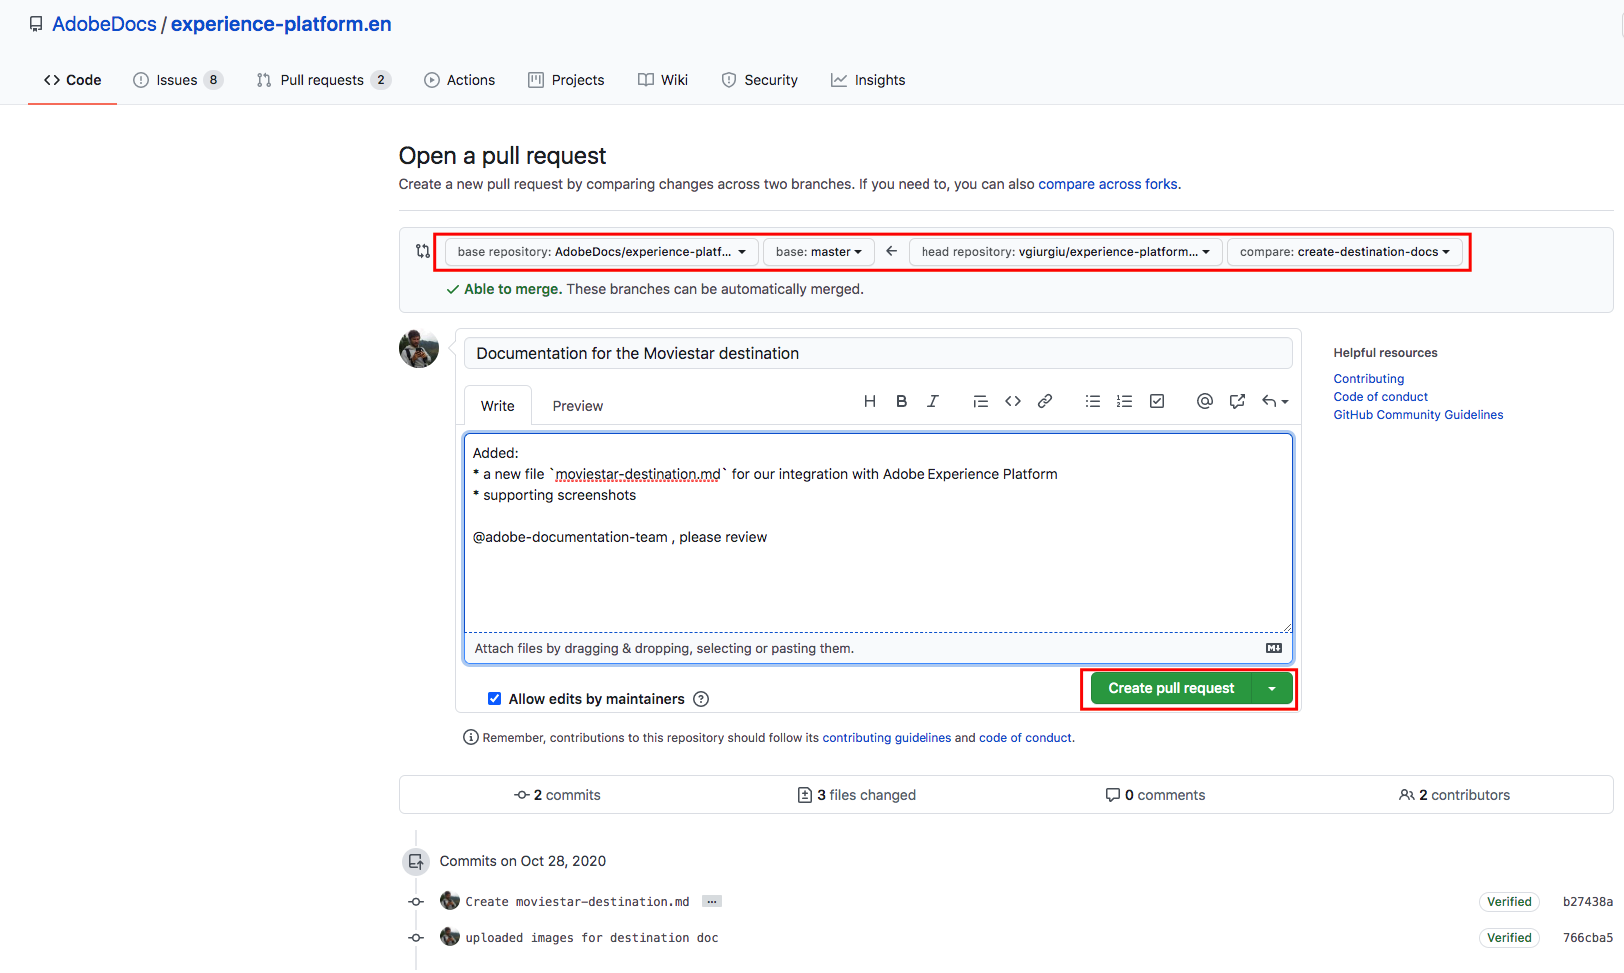
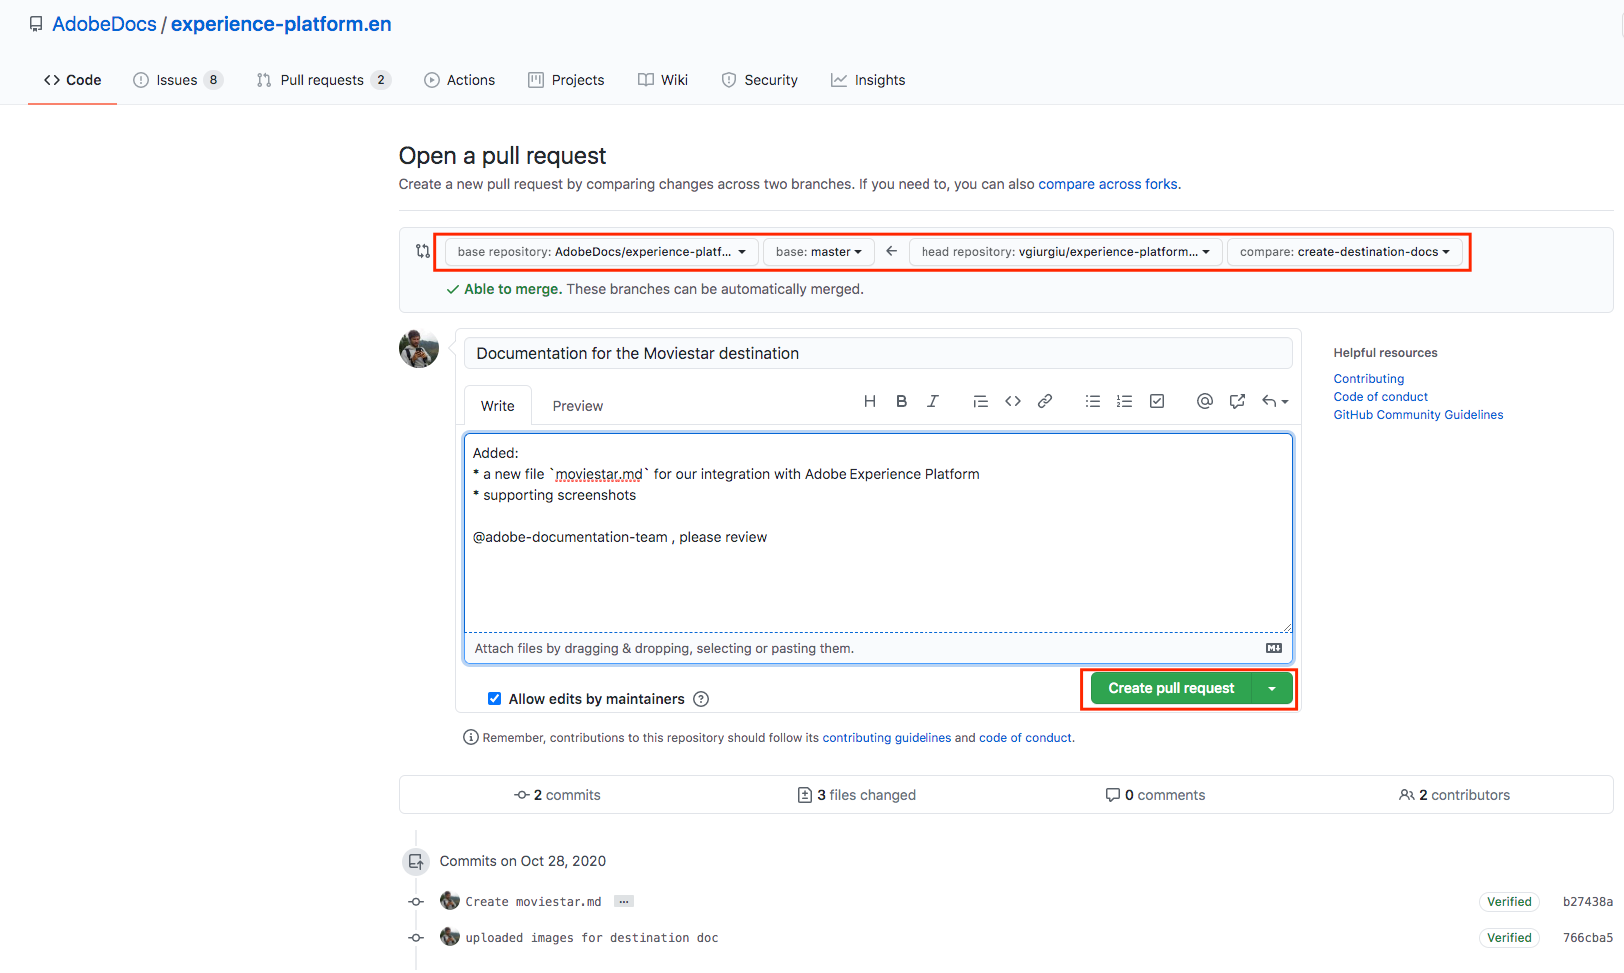
Updates to the documentation instructions
* to remove rtcdp from folder structures
* to reference the fact that we now have a deeper folder structure in the destinations repository

Changed region(s): [[0.3695, 0.4625, 0.6466, 0.4933], [0.7697, 0.6783, 0.8005, 0.7091], [0.3695, 0.925, 0.4002, 0.9558]]

diff --git a/help/docs-framework/documentation-instructions.md b/help/docs-framework/documentation-instructions.md
@@ -113,14 +113,14 @@ The instructions below show you how to use the GitHub web interface to author do
 
    ![create new github branch](/help/docs-framework/assets/new-branch-github.gif)
 
-1. In the GitHub folder structure of the forked repository, navigate to `experience-platform.en/help/destinations/` and select **Add file > Create new file**. 
+1. In the GitHub folder structure of the forked repository, navigate to `experience-platform.en/help/destinations/catalog/[...]`, where [...] is the desired category for your destination. For example, if you are adding a personalization destination to Experience Platform, select the `personalization` category. Select **Add file > Create new file**. 
 
    ![add new file](/help/docs-framework/assets/github-navigate-and-create-file.gif)
 
-1. Name your destination `YOURDESTINATION-destination.md`, where YOURDESTINATION is the name of your destination in Adobe Experience Platform. For example, if your company is Moviestar, you would call your file `moviestar-destination.md`.
+1. Name your destination `YOURDESTINATION.md`, where YOURDESTINATION is the name of your destination in Adobe Experience Platform. For example, if your company is called Moviestar, you would name your file `moviestar.md`.
 1. In your new file in GitHub, paste in the content of the [destination template](/help/docs-framework/self-service-template.md). Download the template [here](assets/yourdestination-template.md.zip). Unzip it to extract the `.md` file template.
 1. In the GitHub interface, edit the template with relevant information for your destination. Follow the instructions in the template. 
-1. For any screenshots or images that you plan on using, use the GitHub interface to upload the files to `experience-platform.en/help/destinations/assets` and link to them from the page you are authoring. See [instructions how to link to images](https://docs.adobe.com/content/help/en/contributor/contributor-guide/writing-essentials/linking.html#link-to-images).
+1. For any screenshots or images that you plan on using, use the GitHub interface to upload the files to `experience-platform.en/help/destinations/assets/catalog/` and link to them from the page you are authoring. See [instructions how to link to images](https://docs.adobe.com/content/help/en/contributor/contributor-guide/writing-essentials/linking.html#link-to-images).
    
    ![upload image to github](/help/docs-framework/assets/upload-image.gif)
 
@@ -170,17 +170,29 @@ Please see [Install Git and Markdown Authoring tools](https://docs.adobe.com/con
 
    ![clone repository to local machine](/help/docs-framework/assets/clone-local.png)
 
-1. In your local file structure, navigate to `GitHub/experience-platform.en/help/destinations`.
-1. Download the [self-service destination template](assets/yourdestination-template.md.zip). Unzip it and extract the file `yourdestination-template.md` to the above directory.  Rename the file `YOURDESTINATION-destination.md`, where YOURDESTINATION is the name of your destination in Adobe Experience Platform. For example, if your company is Moviestar, you would call your file `moviestar-destination.md`.
+1. In your local file structure, navigate to `experience-platform.en/help/destinations/catalog/[...]`, where [...] is the desired category for your destination. For example, if you are adding a personalization destination to Experience Platform, select the `personalization` folder.
+1. Download the [self-service destination template](assets/yourdestination-template.md.zip). Unzip it and extract the file `yourdestination-template.md` to the above directory.  Rename the file `YOURDESTINATION.md`, where YOURDESTINATION is the name of your destination in Adobe Experience Platform. For example, if your company is called Moviestar, you would name your file `moviestar.md`.
 1. Open your new file in your [text editor of choice](https://docs.adobe.com/content/help/en/contributor/contributor-guide/setup/install-tools.html#understand-markdown-editors).
 1. Edit the template with relevant information for your destination. Follow the instructions in the template. 
-1.  For any screenshots or images that you plan on adding to your documentation, save those to `GitHub/experience-platform.en/help/destinations/assets` and link to them from the page you are authoring. See [instructions how to link to images](https://docs.adobe.com/content/help/en/contributor/contributor-guide/writing-essentials/linking.html#link-to-images).
-1.  When you are ready, save the file you are working on.
+1.  For any screenshots or images that you plan on adding to your documentation, navigate to `GitHub/experience-platform.en/help/destinations/assets/catalog/[...]`, where [...] is the desired category for your destination. For example, if you are adding a personalization destination to Experience Platform, select the `personalization` folder. Create a new folder for your destination and drop your images here. You can link to them from the page you are authoring. See [instructions how to link to images](https://docs.adobe.com/content/help/en/contributor/contributor-guide/writing-essentials/linking.html#link-to-images).
+1. When you are ready, save the file you are working on.
 1. In GitHub Desktop, create a working branch for your updates and select **Publish branch** to publish the branch to GitHub.
+
+   >[!TIP]
+   >
+   >The folder structure in the screen recording below is outdated. For a personalization destination named Moviestar, you would use the following folder structure:
+   >* `help/destinations/catalog/personalization/moviestar.md` for the Markdown file.
+   >* `help/destinations/assets/catalog/personalization/moviestar/` for any images you are using in the documentation.
 
    ![new branch local](/help/docs-framework/assets/new-branch-local.gif)
 
 1. In GitHub Desktop, [commit](https://docs.github.com/en/free-pro-team@latest/github/getting-started-with-github/github-glossary#commit) your work, as shown below.
+
+   >[!TIP]
+   >
+   >The folder structure in the screen recording below is outdated. For a personalization destination named Moviestar, you would use the following folder structure:
+   >* `help/destinations/catalog/personalization/moviestar.md` for the Markdown file.
+   >* `help/destinations/assets/catalog/personalization/moviestar/` for any images you are using in the documentation.
 
    ![commit local](/help/docs-framework/assets/commit-local.png)
 
@@ -192,7 +204,7 @@ Please see [Install Git and Markdown Authoring tools](https://docs.adobe.com/con
 
    ![create pull request](/help/docs-framework/assets/ssd-create-pull-request-1.png)
 
-1. Make sure that the base and compare branches are correct. Add a note to the PR, describing your update, and select **Create pull request**. This opens a PR to merge the working branch of your fork into the master branch of the Adobe repository. 
+1.  Make sure that the base and compare branches are correct. Add a note to the PR, describing your update, and select **Create pull request**. This opens a PR to merge the working branch of your fork into the master branch of the Adobe repository. 
    >[!TIP]
    >
    >Leave the **Allow edits by maintainers** checkbox selected so that the Adobe documentation team can make edits to the PR. 
@@ -200,7 +212,7 @@ Please see [Install Git and Markdown Authoring tools](https://docs.adobe.com/con
    ![create pull request to adobe repo](/help/docs-framework/assets/ssd-create-pull-request-2.png)
 
 1. At this point, a notification appears that prompts you to sign the Adobe CLA. Note that this is a mandatory step. After you signed it, refresh the PR page and merge the pull request.
-1. You can confirm that the pull request has been submitted by inspecting the **Pull requests** tab in `https://github.com/AdobeDocs/experience-platform.en`.
+1.  You can confirm that the pull request has been submitted by inspecting the **Pull requests** tab in `https://github.com/AdobeDocs/experience-platform.en`.
 
    ![PR successful](/help/docs-framework/assets/ssd-pr-successful.png)
 
